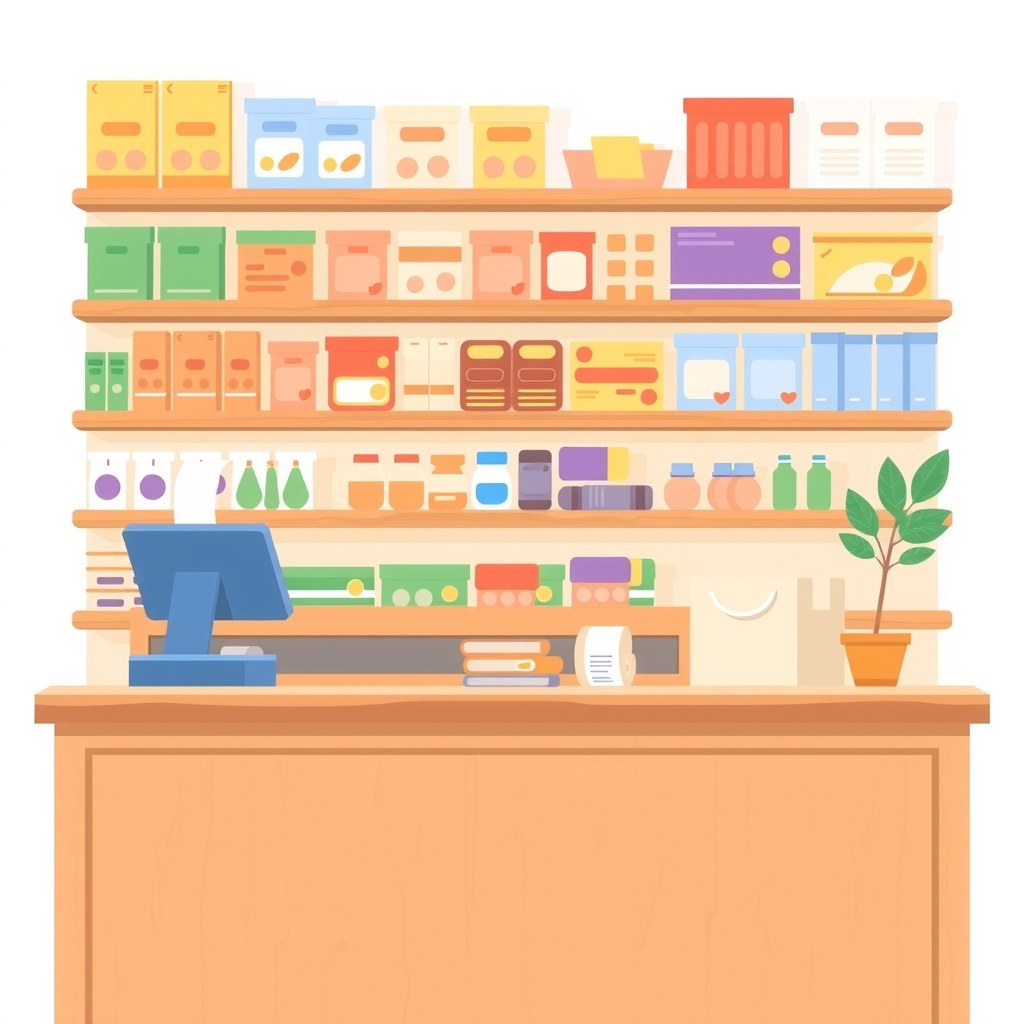
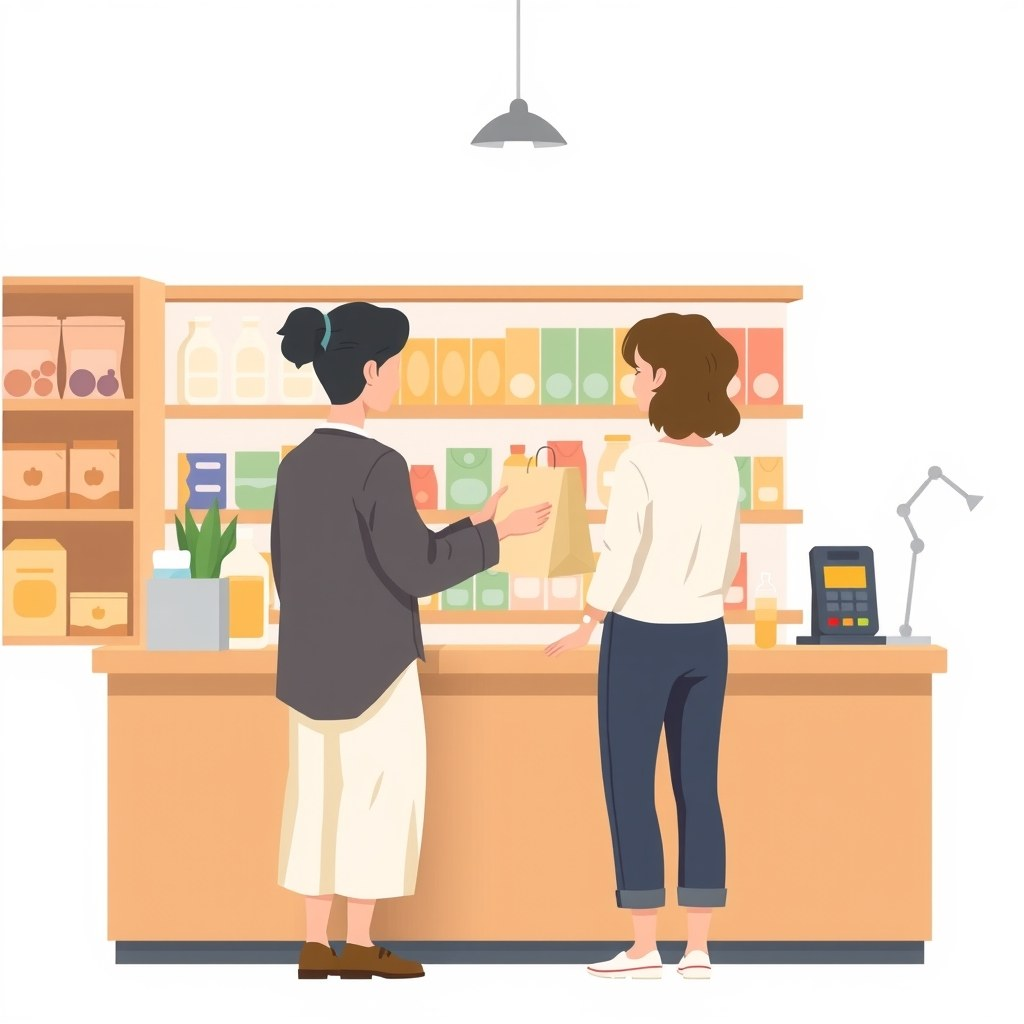
[tanpa-notif] cara-bersaing-dengan-marketplace-untuk-toko-fisik: gambar 1 diganti ilustrasi AI

diff --git a/artikel/cara-bersaing-dengan-marketplace-untuk-toko-fisik.html b/artikel/cara-bersaing-dengan-marketplace-untuk-toko-fisik.html
@@ -389,7 +389,7 @@ footer a:hover{color:#0B0C0E}
 
     <h2>1. Apa Itu Penawaran Berbasis Nilai untuk Toko Fisik?</h2>
     <figure class="foto">
-      <img src="img-cara-bersaing-dengan-marketplace-untuk-toko-fisik-1.jpg" alt="Meja kasir toko kecil dengan mesin pembayaran dan rak produk di belakangnya" loading="lazy" width="1024" height="1024">
+      <img src="img-cara-bersaing-dengan-marketplace-untuk-toko-fisik-1.jpg" alt="Penjual toko kecil melayani pembeli di meja kasir" loading="lazy" width="1024" height="1024">
       <figcaption>Nilai tambah toko fisik ada di layanannya, bukan di potongan harganya. <span class="kredit">Ilustrasi AI</span></figcaption>
     </figure>
 
